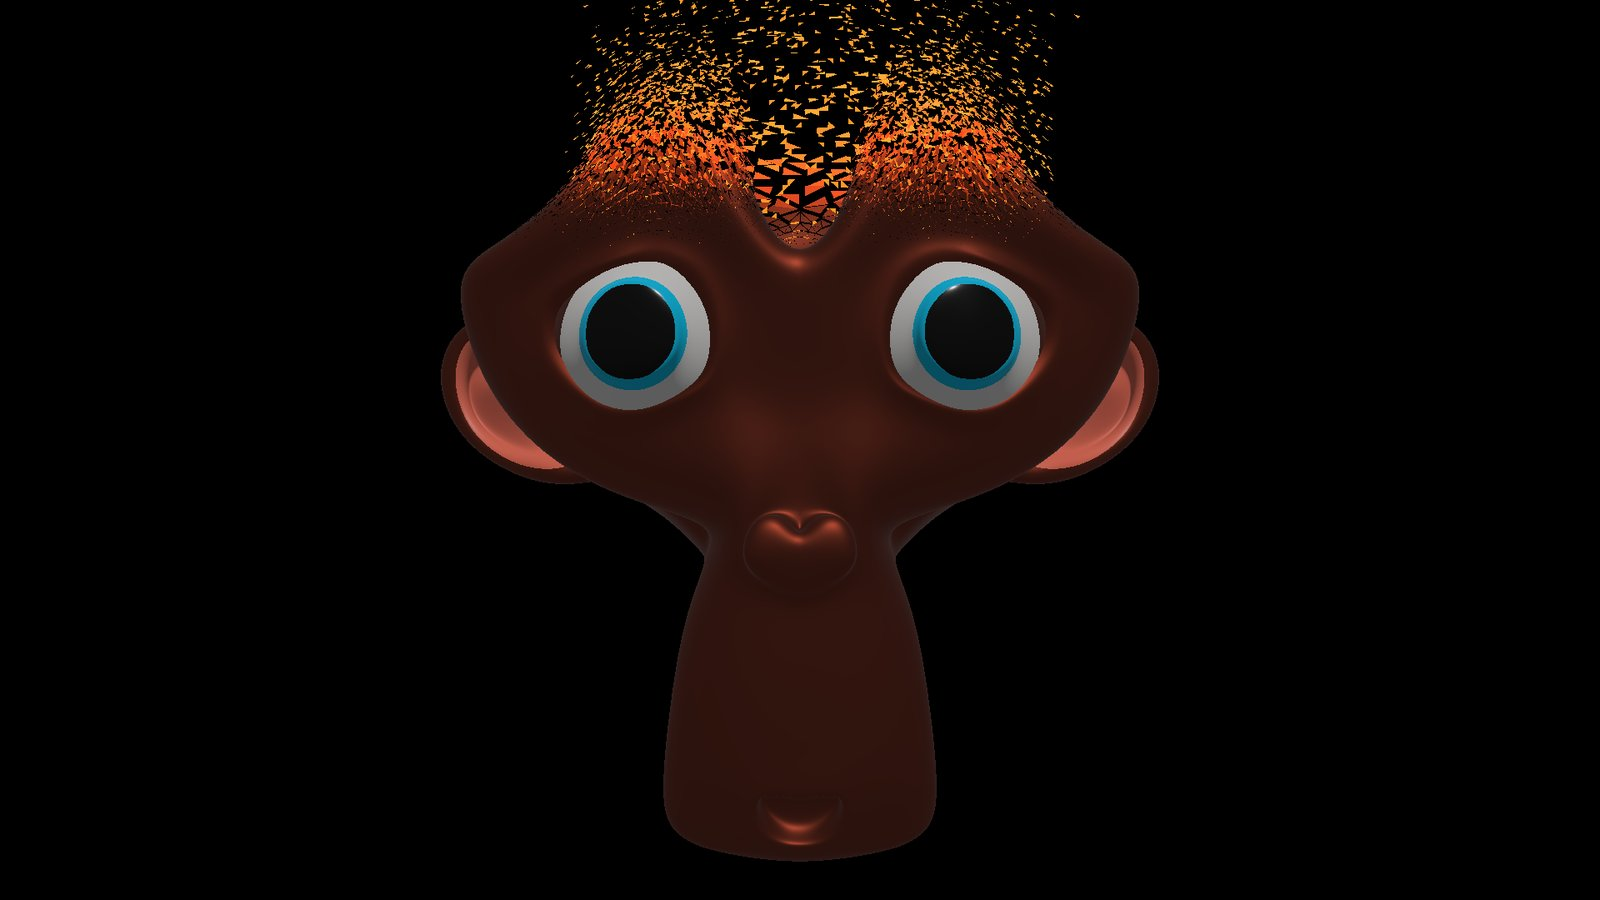
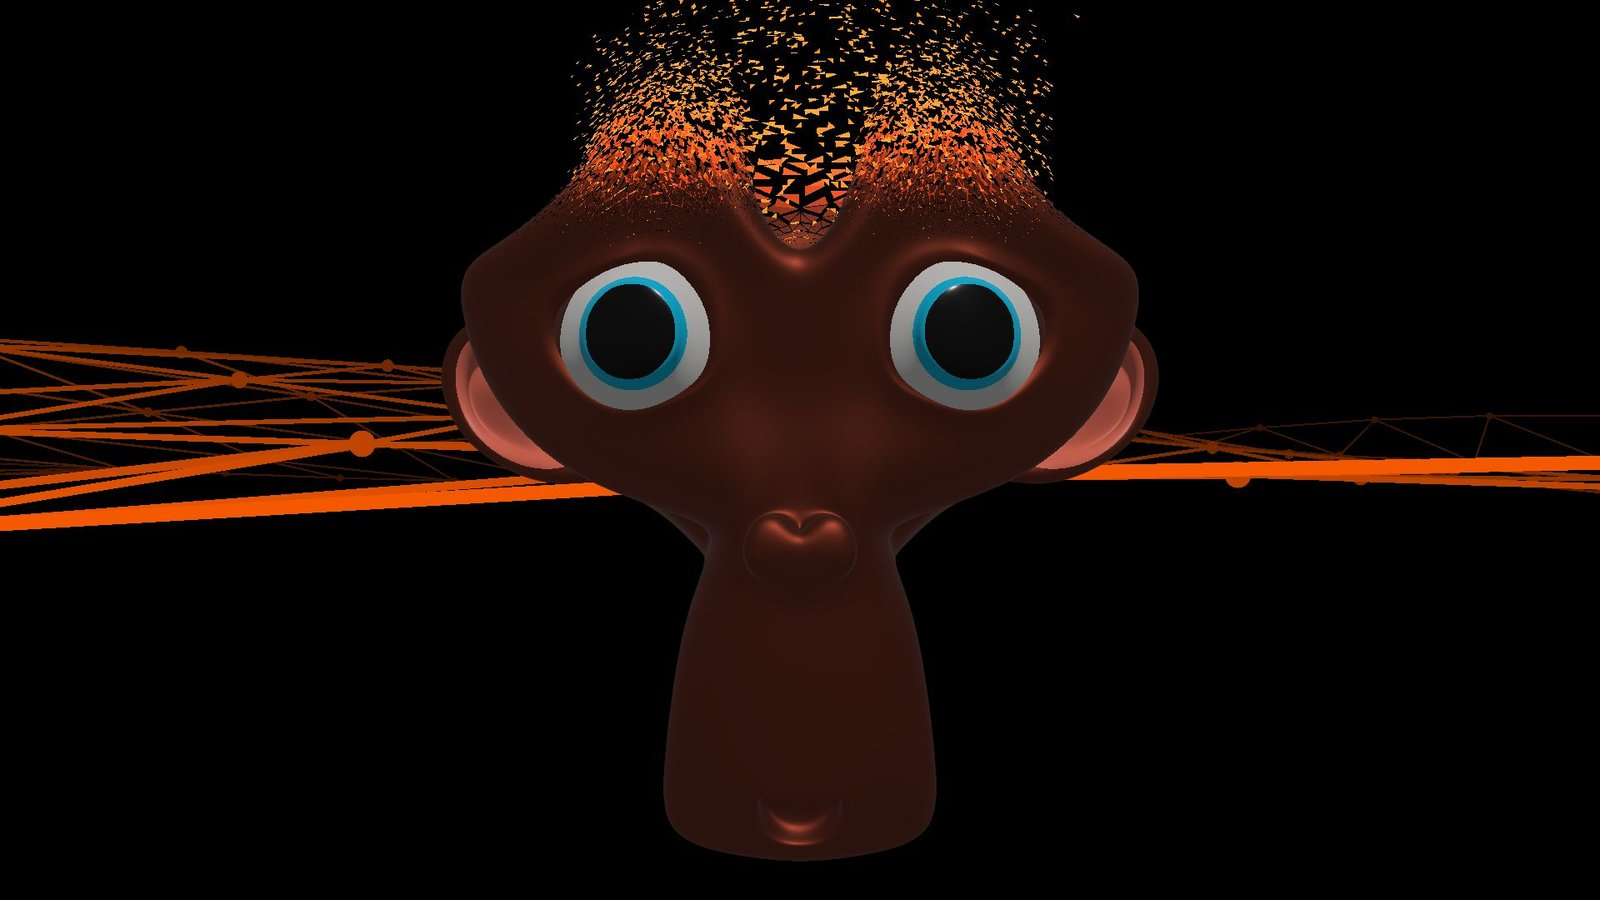
Replace 'Bring your own 3D' image with new render

diff --git a/features.html b/features.html
@@ -178,7 +178,7 @@
           </p>
         </div>
         <figure class="showcase__visual showcase__visual--image">
-          <img src="assets/showcase-3d.jpg" width="1600" height="900" alt="A 3D model rendered live in Fluence with PBR shading, mid-disintegrate effect." loading="lazy" />
+          <img src="assets/showcase-3d.jpg?v=2" width="1600" height="900" alt="A 3D model rendered live in Fluence with PBR shading." loading="lazy" />
         </figure>
       </div>
     </div>